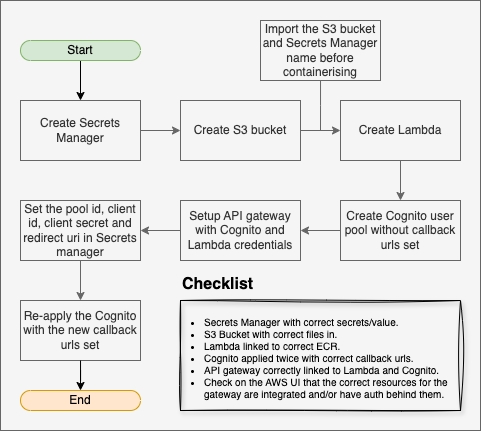
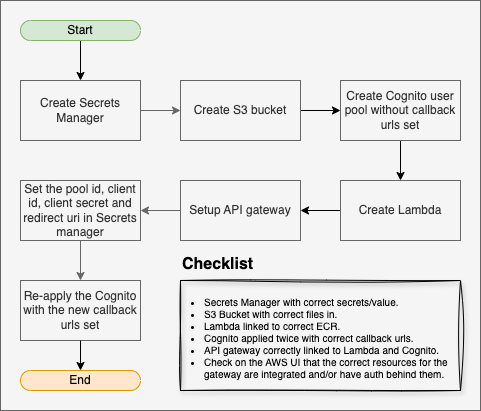
[KEH-352] - MkDocs update

diff --git a/docs/endpoints/filter.md b/docs/endpoints/filter.md
@@ -6,27 +6,35 @@
 
 Filter projects based on multiple criteria.
 
+### Authorization
+
+Requires a valid Cognito ID token in the Authorization header.
+
+| Header | Type | Description | Required |
+|-----------|-------------|-------------|-------------|
+| `Authorization` | string | AWS Cognito ID token | Yes |
+
 ### Query Parameters
 
-| Parameter | Description |
-|-----------|-------------|
-| email | User email to filter by (comma-separated) |
-| roles | Roles to filter by (comma-separated) |
-| name | Project name to filter by (comma-separated) |
-| developed | Filter by development type ("In house", "Partnership", "Outsourced") |
-| languages | Programming languages to filter by (comma-separated) |
-| source_control | Source control systems to filter by (comma-separated) |
-| hosting | Hosting platforms to filter by (comma-separated) |
-| database | Database types to filter by (comma-separated) |
-| frameworks | Frameworks to filter by (comma-separated) |
-| cicd | CI/CD tools to filter by (comma-separated) |
-| infrastructure | Infrastructure tools to filter by (comma-separated) |
-| return | Sections to return in response (user, details, developed, source_control, architecture) |
+| Parameter | Type | Description | Required |
+|-----------|-------------|-------------|-------------|
+| `email` | string | User email to filter by (comma-separated) | False |
+| `roles` | string | Roles to filter by (comma-separated) | False |
+| `name` | string | Project name to filter by (comma-separated) | False |
+| `developed` | string | Filter by development type ("In house", "Partnership", "Outsourced") | False |
+| `languages` | string | Programming languages to filter by (comma-separated) | False |
+| `source_control` | string | Source control systems to filter by (comma-separated) | False |
+| `hosting` | string | Hosting platforms to filter by (comma-separated) | False |
+| `database` | string | Database types to filter by (comma-separated) | False |
+| `frameworks` | string | Frameworks to filter by (comma-separated) | False |
+| `cicd` | string | CI/CD tools to filter by (comma-separated) | False |
+| `infrastructure` | string | Infrastructure tools to filter by (comma-separated) | False |
+| `return` | string | Sections to return in response (user, details, developed, source_control, architecture) | False |
 
 ### Responses
 
 | Status Code | Description                             |
 |-------------|-----------------------------------------|
-| 200         | Returns filtered list of projects matching the specified criteria. If the `return` parameter is specified, only the requested sections will be included in the response. |
-| 401         | Authorization is required               |
-| 404         | Project not found                       |
+| `200`         | Returns filtered list of projects matching the specified criteria. If the `return` parameter is specified, only the requested sections will be included in the response. |
+| `401`         | Authorization is required               |
+| `404`         | Project not found                       |

diff --git a/docs/endpoints/project.md b/docs/endpoints/project.md
@@ -1,8 +1,8 @@
 # Projects API
 
-## Get All Projects
+## Get a Project
 
-`GET /api/v1/project/{project_name}`
+`GET /api/v1/projects/{project_name}`
 
 Returns the project associated with the authenticated user.
 
@@ -10,24 +10,44 @@ Returns the project associated with the authenticated user.
 
 Requires a valid Cognito ID token in the Authorization header.
 
+| Header | Type | Description | Required |
+|-----------|-------------|-------------|-------------|
+| `Authorization` | string | AWS Cognito ID token | Yes |
+
+### Path Variables
+
+| Path Variable | Type | Description | Required |
+|-----------|-------------|-------------|-------------|
+| `project_name` | string | The name of the project to get | Yes |
+
 ### Responses
 
 | Status Code | Description                             |
 |-------------|-----------------------------------------|
-| 200         | Returns a project object. |
-| 401         | Authorization is required               |
-| 404         | Project not found                       |
+| `200`         | Returns a project object. |
+| `401`         | Authorization is required               |
+| `404`         | Project not found                       |
 
 
 ## Update a Project
 
-`PUT /api/v1/projects`
+`PUT /api/v1/projects/{project_name}`
 
 Updates a project.
 
 ### Authorization
 
 Requires a valid Cognito ID token in the Authorization header.
+
+| Header | Type | Description | Required |
+|-----------|-------------|-------------|-------------|
+| `Authorization` | string | AWS Cognito ID token | Yes |
+
+### Path Variables
+
+| Path Variable | Type | Description | Required |
+|-----------|-------------|-------------|-------------|
+| `project_name` | string | The name of the project to update | Yes |
 
 ### Request Body
 
@@ -124,7 +144,7 @@ Requires a valid Cognito ID token in the Authorization header.
 
 | Status Code | Description                             |
 |-------------|-----------------------------------------|
-| 200         | Returns the same project object as the request body. |
-| 401         | Authorization is required               |
-| 404         | Project not found                       |
-| 406         | Missing JSON data                       |
+| `200`         | Returns the same project object as the request body. |
+| `401`         | Authorization is required               |
+| `404`         | Project not found                       |
+| `406`         | Missing JSON data                       |

diff --git a/docs/endpoints/projects.md b/docs/endpoints/projects.md
@@ -10,14 +10,17 @@ Returns all projects associated with the authenticated user.
 
 Requires a valid Cognito ID token in the Authorization header.
 
+| Header | Type | Description | Required |
+|-----------|-------------|-------------|-------------|
+| `Authorization` | string | AWS Cognito ID token | Yes |
+
 ### Responses
 
 | Status Code | Description                             |
 |-------------|-----------------------------------------|
-| 200         | Returns a list of project objects. |
-| 401         | Authorization is required               |
-
-
+| `200`         | Returns a list of project objects. |
+| `401`         | Authorization is required               |
+| `404`         | Projects not found |
 
 ## Create a Project
 
@@ -28,6 +31,10 @@ Creates a new project.
 ### Authorization
 
 Requires a valid Cognito ID token in the Authorization header.
+
+| Header | Type | Description | Required |
+|-----------|-------------|-------------|-------------|
+| `Authorization` | string | AWS Cognito ID token | Yes |
 
 ### Request Body
 
@@ -124,7 +131,7 @@ Requires a valid Cognito ID token in the Authorization header.
 
 | Status Code | Description                                             |
 |-------------|---------------------------------------------------------|
-| 201         | Created project. Returns the same project object as the request body.                                        |
-| 401         | Authorization is required                              |
-| 406         | Missing JSON data                                      |
-| 409         | Project with the same name and owner already exists    |
+| `201`         | Created project. Returns the same project object as the request body.                                        |
+| `401`         | Authorization is required                              |
+| `406`         | Missing JSON data                                      |
+| `409`         | Project with the same name and owner already exists    |

diff --git a/docs/infrastructure.md b/docs/infrastructure.md
@@ -6,9 +6,53 @@ Before terraforming the API, you must have the API Python code containerised, us
 
 Please refer to the [deployment](deployment.md) guide for more information.
 
+There are **5** AWS resources that are created by the terraform script:
+
+- Secrets Manager (Secrets)
+- S3 Bucket (Storage)
+- Cognito User Pool (Authentication)
+- Lambda Function (Lambda)
+- API Gateway (api_gateway)
+
+Go through the list and deploy each resource one by one.
+
+For each resource, you will need to set the `domain` and `service_subdomain` variables in the `tfvars` file.
+
+### 1. ECR Repository
+
+Make sure you have an ECR repository created in the AWS account. This will be used in the `S3 bucket` and `Lambda function`.
+
+### 2. Secrets Manager
+
+Run like normal. Leave the `cognito_pool_id`, `cognito_client_id`, `cognito_client_secret`, and `redirect_uri` variables blank. 
+
+### 3. S3 Bucket
+
+Set the `ecr_repository_name` variable in the `tfvars` file. Then run the terraform script.
+
+### 4. Cognito User Pool
+
+Run like normal.
+
+### 5. Lambda Function
+
+Set the `tech_audit_data_bucket_name` and `tech_audit_secrets_manager_name` variables in the `tfvars` file. Leave the `aws_cognito_token_url` variable blank. Then run the terraform script.
+
+### 6. API Gateway
+
+Run like normal. Note down the 
+
+### 7. Secrets Manager Re-application
+
+Go back to the `Secrets Manager` resource and set the `cognito_pool_id`, `cognito_client_id`, `cognito_client_secret`, and `redirect_uri` variables.
+
+### 8. Finished
+
 ![AWS Resources](assets/explanation.png)
 
 ## Terraform Configuration
-Detailed explanation of the Terraform setup and infrastructure components...
+
+Flow chart explanation of the Terraform setup and infrastructure components.
 
 ![Infrastructure Diagram](assets/creation_flow.png)
+

diff --git a/docs/api.md b/docs/api.md
@@ -1,32 +1,33 @@
 # API Documentation
 
-The Tech Audit Tool API provides endpoints for managing project data and authentication. All endpoints require authentication using AWS Cognito ID tokens.
+The Tech Audit Tool API provides endpoints for managing project data and authentication. ***Most*** endpoints require authentication using AWS Cognito ID tokens.
 
-## Interactive API Documentation
+### Interactive API Documentation
 
 <iframe src="https://tech-audit-tool-api.sdp-dev.aws.onsdigital.uk/" width="100%" height="800px" frameborder="0"></iframe>
 
 
-## Authentication
+### Authentication
 
-All API endpoints require a valid AWS Cognito ID token in the Authorization header:
+**Most** API endpoints require a valid AWS Cognito ID token in the Authorization header:
 
-```
-Authorization: <id_token>
-```
+| Header | Type | Description | Required |
+|-----------|-------------|-------------|-------------|
+| `Authorization` | string | AWS Cognito ID token | Yes |
 
-## Base URL
+### Base URL
 
 All endpoints are prefixed with `/api/v1/` as the namespace.
 
-## Available Endpoints
+### Available Endpoints
 
 - [Authentication](endpoints/auth.md)
     - Verify tokens
     - Refresh tokens
-[Projects](endpoints/projects.md)
+- [Projects](endpoints/projects.md)
     - Get all projects
     - Create new project
+- [Project](endpoints/project.md)
     - Get project details
     - Update project
 - [User](endpoints/user.md)

diff --git a/docs/index.md b/docs/index.md
@@ -1,12 +1,23 @@
 # Tech Audit Tool API
-This repository contains the infrastructure and 
-code for deploying an API using Terraform on AWS.
-The project is structured to support multiple environments.
+
+## Overview
+
+This API links with the [KEH Tech Audit Tool](https://github.com/ONS-Innovation/keh-tech-audit-tool) frontend. 
+
+This repository contains the infrastructure and  code for deploying an API using Terraform on AWS. The project is structured to support multiple environments. 
+
+## TechStack Overview
 
 This project is built using [Poetry](https://python-poetry.org/) for dependency management and [MkDocs](https://www.mkdocs.org/) for generating the documentation site.
+
 The API Python code is built using [Flask Restx](https://flask-restx.readthedocs.io/en/latest/).
+
+## Infrastructure Overview
 
 The API infrastructure is built using [Terraform](https://www.terraform.io/). The API Gateway available on AWS is used to handle the authentication and routing of requests to the Lambda function.
 
 To deploy the API, the Terraform code is run to create the necessary resources on AWS. The Terraform code is located in the `terraform` directory. A certain pattern is to be followed when deploying a brand new API.
 
+## Getting Started
+
+Check out the [README.md](https://github.com/ONS-Innovation/keh-tech-audit-tool-api/blob/main/README.md) file in the root of the repository for more information.

diff --git a/docs/endpoints/refresh.md b/docs/endpoints/refresh.md
@@ -2,9 +2,9 @@
 
 The API uses AWS Cognito for authentication. All API endpoints require a valid ID token in the Authorization header.
 
-## Verify Token
+## Refresh Token
 
-`GET /api/v1/verify`
+`GET /api/v1/refresh`
 
 Exchange authorization code for tokens.
 
@@ -12,12 +12,11 @@ Exchange authorization code for tokens.
 
 | Parameter | Description |
 |-----------|-------------|
-| refresh_token | Refresh token from Cognito callback |
+| `refresh_token` | Refresh token from Cognito callback |
 
 ### Response 
 
 | Status Code | Description |
 |-------------|-------------|
-| 200 | Success. Response body contains the new ID token: `{"id_token": "<id_token>"}`. |
-| 400 | Bad Request |
-| 500 | Internal Server Error |
+| `200` | Success. Response body contains the new ID token: `{"id_token": "string"}`. |
+| `400` | Bad Request |

diff --git a/docs/endpoints/auth.md b/docs/endpoints/auth.md
@@ -10,13 +10,14 @@ Exchange authorization code for tokens.
 
 ### Query Parameters
 
-| Parameter | Description |
-|-----------|-------------|
-| code | Authorization code from Cognito callback |
+| Parameter | Type | Description | Required |
+|-----------|-------------|-------------|-------------|
+| `code` | `string` | Authorization code from Cognito callback | Yes |
 
 ### Responses
 
 | Status Code | Description |
 |-----------|-------------|
-| 200 | Success. Response body contains the new ID token: `{"id_token": "<id_token>", "refresh_token": "<refresh_token>"}`. |
-| 400 | Bad Request |
+| `200` | Success. Response body contains the new ID token: `{"id_token": "<id_token>", "refresh_token": "<refresh_token>"}`. |
+| `400` | Bad Request |
+| `401` | Authorization is required |

diff --git a/docs/endpoints/user.md b/docs/endpoints/user.md
@@ -10,16 +10,13 @@ Returns the email address of the authenticated user.
 
 Requires a valid Cognito ID token in the Authorization header.
 
-### Response
+| Header | Type | Description | Required |
+|-----------|-------------|-------------|-------------|
+| `Authorization` | string | AWS Cognito ID token | Yes |
 
-```json
-{
-    "email": "string"
-}
-```
-
-### Error Responses
-
+### Responses
 | Status Code | Description |
 |--------|-------------|
-| 404 | User not found |
+| `200` | Success. Returns the user's email address. ` { "email": "string" }` |
+| `401` | Authorization is required |
+| `404` | User not found |
